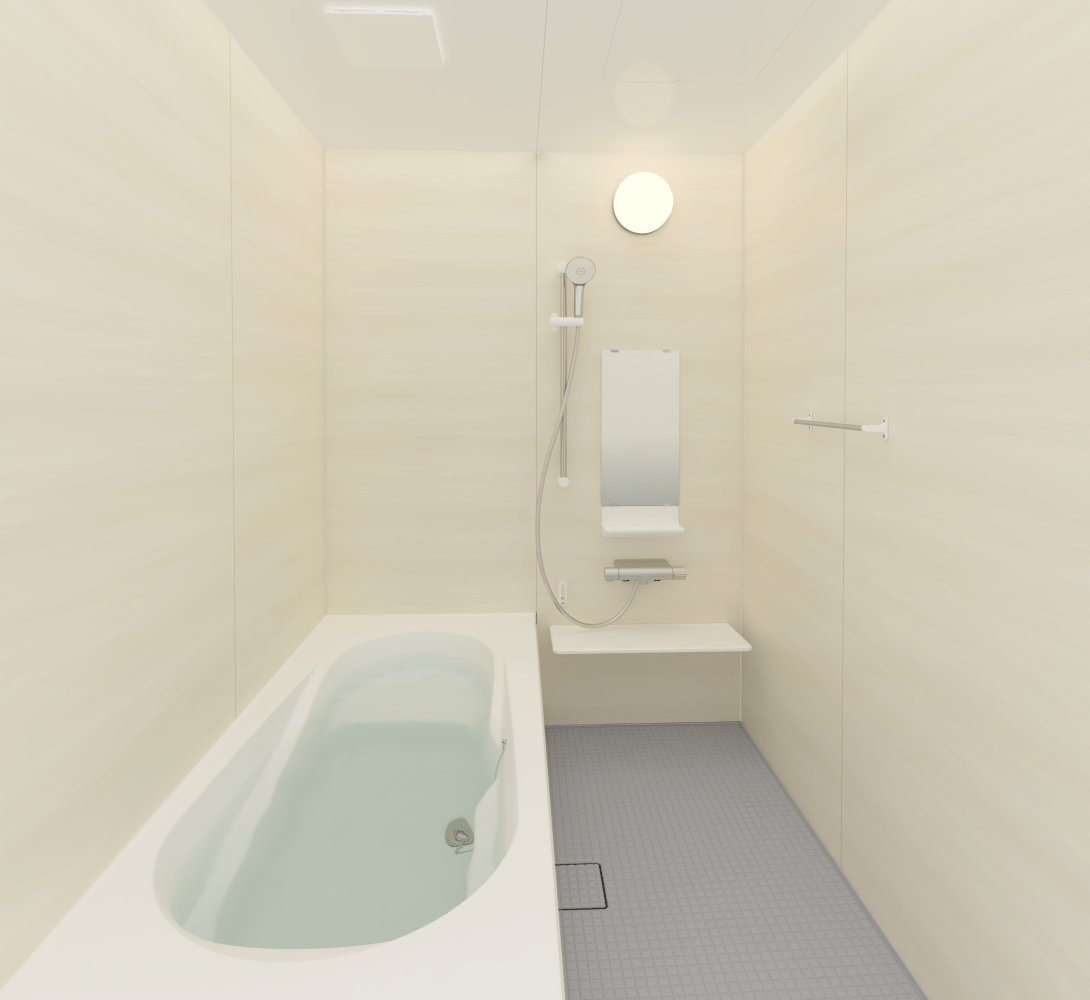
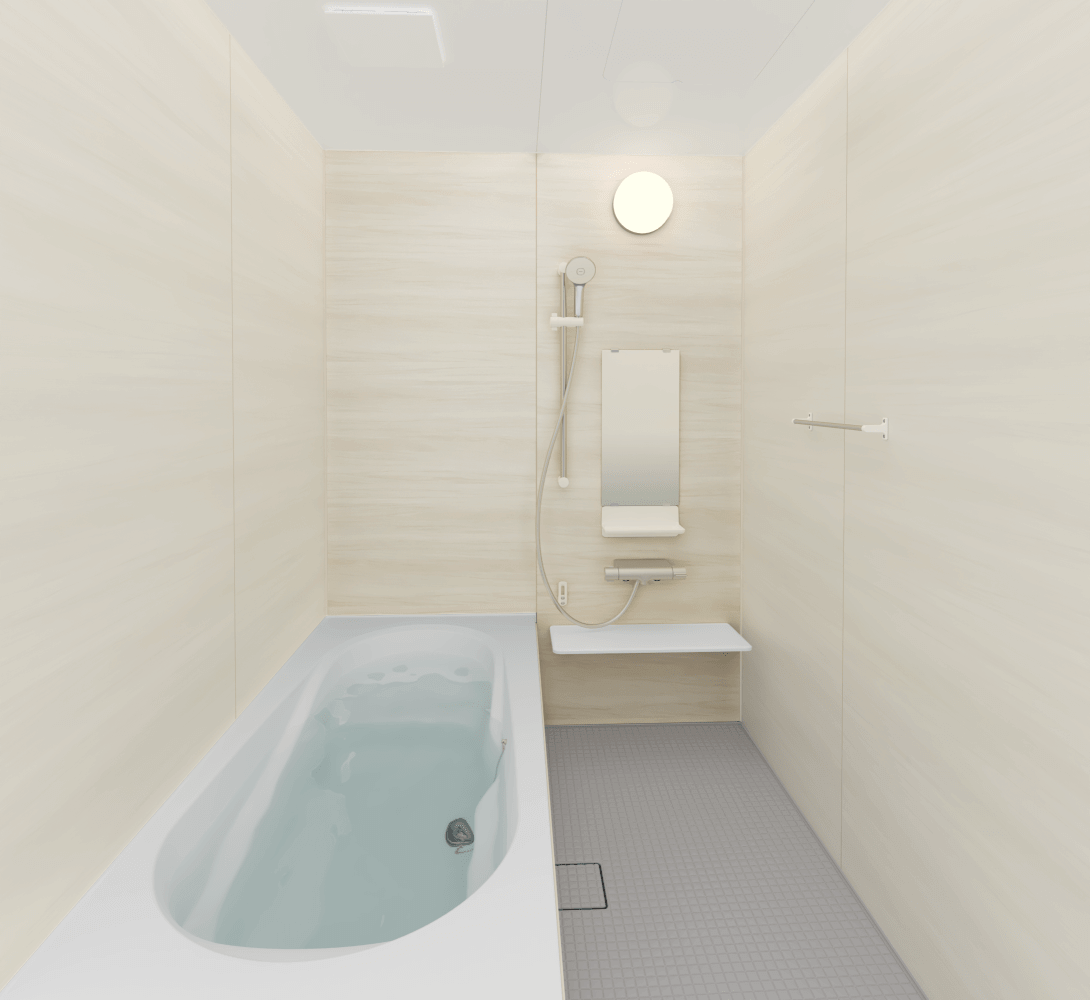
update

Changed region(s): [[0.2183, 0.589, 0.6862, 0.961]]

diff --git a/index.html b/index.html
@@ -18,14 +18,15 @@
         <img class="logo-img" src="./assets/images/h_logo.png" alt="logo">
         <img class="title-img" src="./assets/images/title.svg" alt="title">
     </header>
-    <div class="content-block d-flex justify-content-center init">
+    <div class="content-block d-flex justify-content-center flex-column align-items-center init">
         <div class="composite-block">
-            <img id="wall_img" src="assets/images/wall/ht614.png" alt="" style="z-index: 1">
+            <img id="wall_img" src="assets/images/wall/hn662-le301.png" alt="" style="z-index: 1">
             <img id="floor_img" src="./assets/images/floor/n86.png" alt="" style="z-index: 2">
             <img id="shelf_img" src="./assets/images/shelf/fw1.png" alt="" style="z-index: 2">
             <img id="bath_img" src="./assets/images/bath/w92.png" alt="" style="z-index: 2">
         </div>
     </div>
+    <p id="init_text" class="mt-1">カラーを変えてみよう!</p>
     <div class="controller-container d-none flex-column">
         <div class="controller-title pt-1">
             <p class="mb-0">カラーを変えてみよう!</p>
@@ -78,7 +79,7 @@
                                 </div>
                             </div>
                             <div class="d-flex flex-wrap part-item-custom-2">
-                                <div class="option wall col-3" data-value="hn662,le301" data-name="ウォールナット,マットホワイト">
+                                <div class="option wall col-3 active" data-value="hn662,le301" data-name="ウォールナット,マットホワイト">
                                     <div class="hn662">
                                     </div>
                                     <div class="le301">
@@ -170,7 +171,7 @@
                                     <div class="ht612 "></div>
                                     <div class="le301"></div>
                                 </div>
-                                <div class="option active wall col-3" data-value="ht614,le301"
+                                <div class="option wall col-3" data-value="ht614,le301"
                                      data-name="モルティオダーク,マットホワイト">
                                     <div class="ht614 "></div>
                                     <div class="le301"></div>
@@ -413,5 +414,8 @@
     </footer>
 </div>
 <script src="assets/scripts/main.js"></script>
+<script src="assets/scripts/jspdf.umd.min.js"></script>
+<script src="assets/scripts/printPDF.js"></script>
+<script src="assets/fonts/jpFont.js"></script>
 </body>
 </html>

diff --git a/assets/scripts/printPDF.js b/assets/scripts/printPDF.js
@@ -20,8 +20,14 @@ async function generatePdf(img, frontWall, sideWall, bath, shelf, floor) {
 
     const date = new Date()
 
-    const headerImg = await addImageProcess('../assets/images/header-pdf.png')
-    const logoImg = await addImageProcess('../assets/images/h_logo.png')
+    const href = window.location.href;
+
+    const headerImg = await addImageProcess(href + '/assets/images/header-pdf.png');
+    const logoImg = await addImageProcess(href + '/assets/images/h_logo.png');
+    const wallImg = await addImageProcess(href + '/' + img.wall);
+    const bathImg = await addImageProcess(href + '/' + img.bath);
+    const shelfImg = await addImageProcess(href + '/' + img.shelf);
+    const floorImg = await addImageProcess(href + '/' + img.floor);
 
     let x = 2;
     let y = 3;
@@ -31,7 +37,10 @@ async function generatePdf(img, frontWall, sideWall, bath, shelf, floor) {
     doc.addImage(headerImg, 'png', x, y, endX, 30);
 
     y += 33
-    doc.addImage(img, 'png', x + 35, y , 140, 130);
+    doc.addImage(wallImg, 'png', x + 35, y , 140, 130);
+    doc.addImage(bathImg, 'png', x + 35, y , 140, 130);
+    doc.addImage(shelfImg, 'png', x + 35, y , 140, 130);
+    doc.addImage(floorImg, 'png', x + 35, y , 140, 130);
 
     y += 138
 
@@ -86,7 +95,7 @@ async function generatePdf(img, frontWall, sideWall, bath, shelf, floor) {
     doc.text('tel', x + 107, y);
     doc.text('担当', x + 137, y);
 
-    doc.addImage(logoImg, 'png', 160, y - 5, 37, 20);
+    doc.addImage(logoImg, 'png', 160, y - 3, 37, 6);
 
     y += 10;
     doc.setFontSize(13);
@@ -98,11 +107,9 @@ async function generatePdf(img, frontWall, sideWall, bath, shelf, floor) {
 
     function addBullet(_x, _y, content) {
         doc.setFillColor(136, 136, 136);
-        doc.rect(_x, _y, 5, 5, 'F')
-
+        doc.rect(_x, _y, 5, 5, 'F');
         doc.setFontSize(15);
         doc.text(content, _x + 8, _y + 5);
-
         doc.setFontSize(11);
     }
 

diff --git a/assets/scripts/main.js b/assets/scripts/main.js
@@ -1,4 +1,5 @@
 $(function () {
+    window.jsPDF = window.jspdf.jsPDF;
 
     let firstClick = true;
 
@@ -21,6 +22,8 @@ $(function () {
     } else {
         $('.init').on('click', function () {
             $(this).removeClass('init').off('click');
+
+            $('#init_text').hide();
 
             $('.controller-container').removeClass('d-none').addClass('d-flex');
 
@@ -93,6 +96,31 @@ $(function () {
             }
         })
     });
+
+    $('#print_pdf').on('click', function () {
+        const wall = $('.wall.active').data('name').split(',');
+        const bath = $('.bath.active').data('name');
+        const shelf = $('.shelf.active').data('name');
+        const floor = $('.floor.active').data('name');
+        const wallImg = $('#wall_img').attr('src');
+        const bathImg = $('#bath_img').attr('src');
+        const shelfImg = $('#shelf_img').attr('src');
+        const floorImg = $('#floor_img').attr('src');
+
+        generatePdf(
+            {
+                'wall': wallImg,
+                'bath': bathImg,
+                'shelf': shelfImg,
+                'floor': floorImg
+            },
+            wall[0],
+            wall[wall.length - 1],
+            bath,
+            shelf,
+            floor
+        );
+    })
 
     function initUI() {
             optionWidth = $('#first_option').width();

diff --git a/assets/styles/styles.css b/assets/styles/styles.css
@@ -85,17 +85,13 @@ p {
     transition: all 1s;
 }
 
-.content-block.init {
-    border: none;
-}
-
 .content-block.init:hover {
     cursor: pointer;
 }
 
 .content-block.init > .composite-block {
-    width: calc(100vh - 75px);
-    height: calc(100vh - 75px);
+    width: calc(100vh - 120px);
+    height: calc(100vh - 120px);
 }
 
 .content-block > .composite-block > img {
@@ -352,6 +348,10 @@ p {
     .content-block > .composite-block {
         width: 95vw;
         height: 95vw;
+    }
+
+    #init_text {
+        display: none;
     }
 }
 
